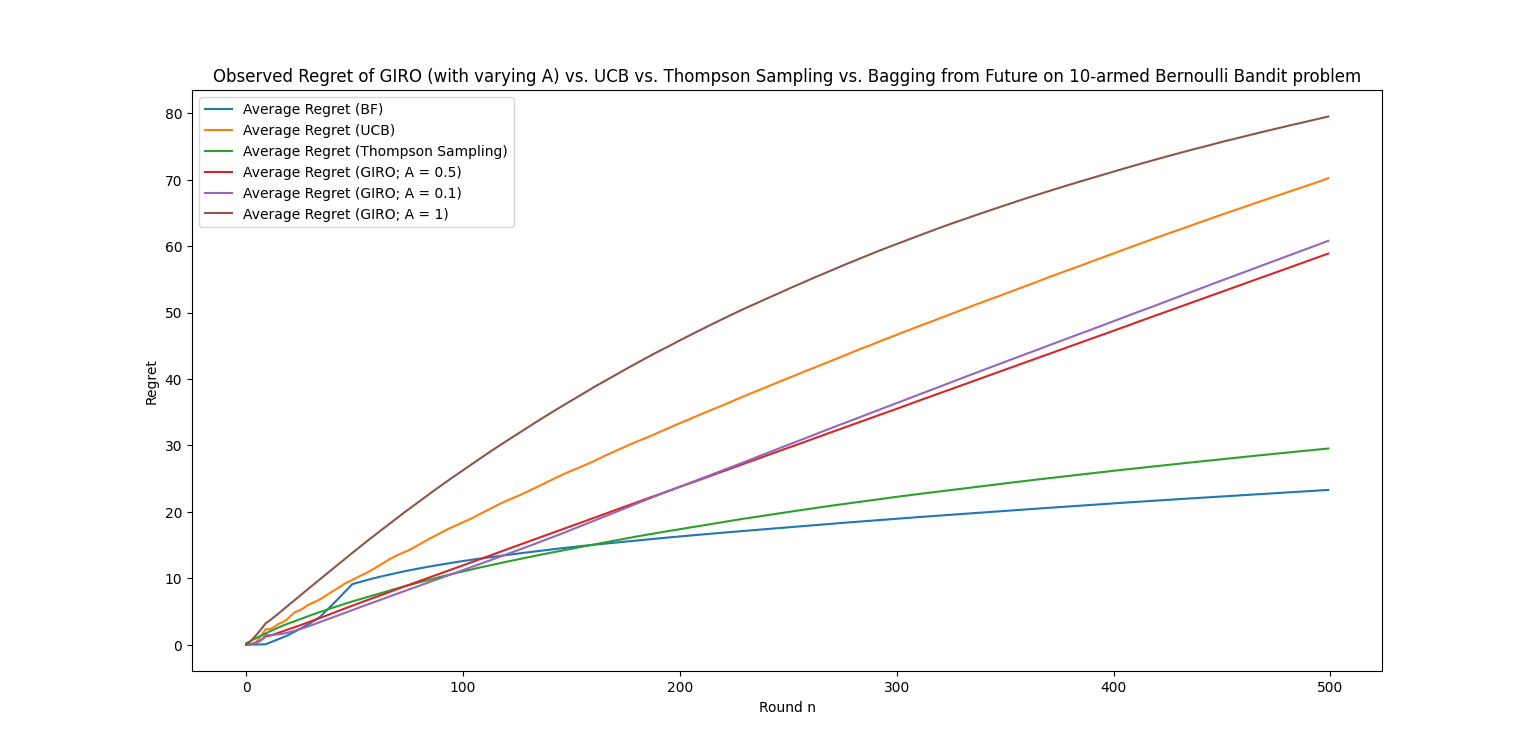
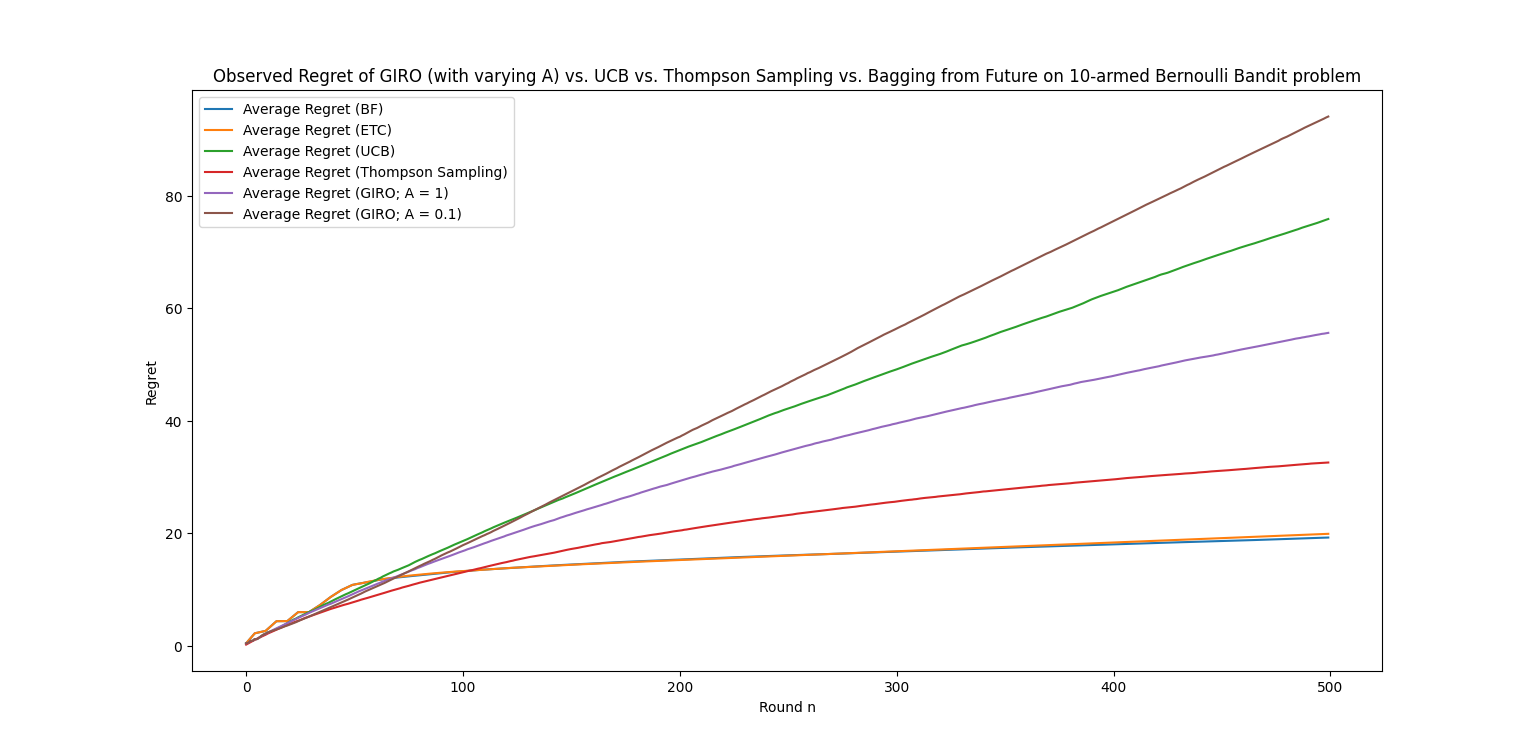
Comparing with ETC

diff --git a/giro_non_contextual.py b/giro_non_contextual.py
@@ -3,6 +3,7 @@ import matplotlib.pyplot as plt
 from numpy import random
 import math
 
+random.seed(885)
 
 def GIRO_arm_estimates_factory_function(A):
 
@@ -70,26 +71,48 @@ def TS_arm_estimates_function(history, t, N):
 
     return arm_estimates_current_round
 
-def bagging_from_future_arm_estimates(history, t, N):
-    num_arms = len(history)
-    arm_estimates_current_round = np.zeros(shape=K)
+def bagging_from_future_factory(initial_exploration):
 
-    for j in range(num_arms):
-        s = len(history[j])
+    def bagging_from_future_arm_estimates(history, t, N):
+        num_arms = len(history)
+        arm_estimates_current_round = np.zeros(shape=K)
 
-        if (s < 5):
-            arm_estimates_current_round[j] = np.inf
-        else:
-            rewards = np.zeros(shape=N)
-            uniform_sample = random.randint(low = 0, high = s-1, size = N - s)
-            for i in range(N):
-                if (i < s):
-                    rewards[i] = history[j][i]
-                else:
-                    rewards[i] = history[j][uniform_sample[i-s]]
-            arm_estimates_current_round[j] = np.mean(rewards)
+        for j in range(num_arms):
+            s = len(history[j])
 
-    return arm_estimates_current_round
+            if (s < initial_exploration):
+                arm_estimates_current_round[j] = np.inf
+            else:
+                rewards = np.zeros(shape=N)
+                uniform_sample = random.randint(low = 0, high = s, size = N - s)
+                for i in range(N):
+                    if (i < s):
+                        rewards[i] = history[j][i]
+                    else:
+                        rewards[i] = history[j][uniform_sample[i-s]]
+                arm_estimates_current_round[j] = np.mean(rewards)
+
+        return arm_estimates_current_round
+    
+    return bagging_from_future_arm_estimates
+
+def explore_then_commit_factory(initial_exploration):
+
+    def explore_then_commit(history, t, N):
+        num_arms = len(history)
+        arm_estimates_current_round = np.zeros(shape=K)
+
+        for j in range(num_arms):
+            s = len(history[j])
+
+            if (s < initial_exploration):
+                arm_estimates_current_round[j] = np.inf
+            else:
+                arm_estimates_current_round[j] = np.mean(history[j])
+        return arm_estimates_current_round
+    
+    return explore_then_commit
+
 
 def bernoulli_bandit(mu_i):
     return random.binomial(n=1, p = mu_i)
@@ -108,19 +131,12 @@ def beta_bandit_factory(nu, ts=False):
 # K-armed Bernoulli Bandit 
 # problem tackled using 
 # various algorithms
-def simulate_stochastic_bandit_problem(K, T, generate_reward, compute_arm_estimates, M=1000):
+def simulate_stochastic_bandit_problem(K, T, generate_reward, compute_arm_estimates, M=100):
 
     # data_structure to keep track of the
     # accumulated regret up to the current round
     # for M different runs
     accumulated_regret = np.zeros(shape=(M, T))
-
-    # Generate the means of the arms 
-    # using a Uniform distribution
-    arms_mean_lower_range = 0.25
-    arms_mean_upper_range = 0.75
-    arms_mean = np.flip(np.sort(random.uniform(arms_mean_lower_range, arms_mean_upper_range, size = K)))
-    optimal_arm_mean = arms_mean[0]
 
     for m in range(0, M):
         # initialize the data_structures
@@ -146,7 +162,7 @@ def simulate_stochastic_bandit_problem(K, T, generate_reward, compute_arm_estima
 
             # add to accumulated regret only if 
             # optimal arm was not chosen this round 
-            if (I_t != 0):
+            if (I_t != optimal_arm_mean_index):
                 sub_optimality_gap = (optimal_arm_mean - arms_mean[I_t]) 
                 if (i == 0):
                     accumulated_regret[m][i] = sub_optimality_gap
@@ -164,12 +180,22 @@ def simulate_stochastic_bandit_problem(K, T, generate_reward, compute_arm_estima
 T = 500
 K = 10
 
-plt.plot(range(T), simulate_stochastic_bandit_problem(K = K, T = T, generate_reward = bernoulli_bandit, compute_arm_estimates = bagging_from_future_arm_estimates), label="Average Regret (BF)")
+# Generate the means of the arms 
+# using a Uniform distribution
+arms_mean_lower_range = 0.25
+arms_mean_upper_range = 0.75
+arms_mean = random.uniform(arms_mean_lower_range, arms_mean_upper_range, size = K)
+optimal_arm_mean_index = np.argmax(arms_mean)
+optimal_arm_mean = arms_mean[optimal_arm_mean_index]
+
+""" simulate_stochastic_bandit_problem(K=K, T=T, generate_reward=bernoulli_bandit, compute_arm_estimates=bagging_from_future_arm_estimates, M=1) """
+
+plt.plot(range(T), simulate_stochastic_bandit_problem(K = K, T = T, generate_reward = bernoulli_bandit, compute_arm_estimates = bagging_from_future_factory(5)), label="Average Regret (BF)")
+plt.plot(range(T), simulate_stochastic_bandit_problem(K = K, T = T, generate_reward = bernoulli_bandit, compute_arm_estimates = explore_then_commit_factory(5)), label="Average Regret (ETC)")
 plt.plot(range(T), simulate_stochastic_bandit_problem(K= K, T = T, generate_reward = bernoulli_bandit, compute_arm_estimates = UCB_arm_estimates_function), label="Average Regret (UCB)")
 plt.plot(range(T), simulate_stochastic_bandit_problem(K= K, T = T, generate_reward = bernoulli_bandit, compute_arm_estimates = TS_arm_estimates_function), label="Average Regret (Thompson Sampling)")
-plt.plot(range(T), simulate_stochastic_bandit_problem(K = K, T = T, generate_reward = bernoulli_bandit, compute_arm_estimates = GIRO_arm_estimates_factory_function(0.5)), label="Average Regret (GIRO; A = 0.5)")
-plt.plot(range(T), simulate_stochastic_bandit_problem(K = K, T = T, generate_reward = bernoulli_bandit, compute_arm_estimates = GIRO_arm_estimates_factory_function(0.1)), label="Average Regret (GIRO; A = 0.1)")
 plt.plot(range(T), simulate_stochastic_bandit_problem(K = K, T = T, generate_reward = bernoulli_bandit, compute_arm_estimates = GIRO_arm_estimates_factory_function(1)), label="Average Regret (GIRO; A = 1)")
+plt.plot(range(T), simulate_stochastic_bandit_problem(K = K, T = T, generate_reward = bernoulli_bandit, compute_arm_estimates = GIRO_arm_estimates_factory_function(0.1)), label="Average Regret (GIRO; A = 0.1)")
 plt.title("Observed Regret of GIRO (with varying A) vs. UCB vs. Thompson Sampling vs. Bagging from Future on 10-armed Bernoulli Bandit problem")
 
 plt.legend()
@@ -177,11 +203,10 @@ plt.ylabel('Regret')
 plt.xlabel('Round n')
 plt.show()
 
-plt.plot(range(T), simulate_stochastic_bandit_problem(K = K, T = T, generate_reward = beta_bandit_factory(nu=4), compute_arm_estimates = bagging_from_future_arm_estimates), label="Average Regret (BF)")
+plt.plot(range(T), simulate_stochastic_bandit_problem(K = K, T = T, generate_reward = beta_bandit_factory(nu=4), compute_arm_estimates = bagging_from_future_factory(5)), label="Average Regret (BF)")
+plt.plot(range(T), simulate_stochastic_bandit_problem(K = K, T = T, generate_reward = bernoulli_bandit, compute_arm_estimates = explore_then_commit_factory(5)), label="Average Regret (ETC)")
 plt.plot(range(T), simulate_stochastic_bandit_problem(K= K, T = T, generate_reward = beta_bandit_factory(nu=4), compute_arm_estimates = UCB_arm_estimates_function), label="Average Regret (UCB)")
 plt.plot(range(T), simulate_stochastic_bandit_problem(K= K, T = T, generate_reward = beta_bandit_factory(nu=4, ts=True), compute_arm_estimates = TS_arm_estimates_function), label="Average Regret (Thompson Sampling)")
-plt.plot(range(T), simulate_stochastic_bandit_problem(K = K, T = T, generate_reward = beta_bandit_factory(nu=4), compute_arm_estimates = GIRO_arm_estimates_factory_function(0.5)), label="Average Regret (GIRO; A = 0.5)")
-plt.plot(range(T), simulate_stochastic_bandit_problem(K = K, T = T, generate_reward = beta_bandit_factory(nu=4), compute_arm_estimates = GIRO_arm_estimates_factory_function(0.1)), label="Average Regret (GIRO; A = 0.1)")
 plt.plot(range(T), simulate_stochastic_bandit_problem(K = K, T = T, generate_reward = beta_bandit_factory(nu=4), compute_arm_estimates = GIRO_arm_estimates_factory_function(1)), label="Average Regret (GIRO; A = 1)")
 plt.title("Observed Regret of GIRO (with varying A) vs. UCB vs. Thompson Sampling vs. Bagging from Future on 10-armed (high-variance) Beta Bandit problem")
 
@@ -190,11 +215,10 @@ plt.ylabel('Regret')
 plt.xlabel('Round n')
 plt.show()
 
-plt.plot(range(T), simulate_stochastic_bandit_problem(K = K, T = T, generate_reward = beta_bandit_factory(nu=16), compute_arm_estimates = bagging_from_future_arm_estimates), label="Average Regret (BF)")
+plt.plot(range(T), simulate_stochastic_bandit_problem(K = K, T = T, generate_reward = beta_bandit_factory(nu=16), compute_arm_estimates = bagging_from_future_factory(5)), label="Average Regret (BF)")
+plt.plot(range(T), simulate_stochastic_bandit_problem(K = K, T = T, generate_reward = beta_bandit_factory(nu=16), compute_arm_estimates = explore_then_commit_factory(5)), label="Average Regret (ETC)")
 plt.plot(range(T), simulate_stochastic_bandit_problem(K= K, T = T, generate_reward = beta_bandit_factory(nu=16), compute_arm_estimates = UCB_arm_estimates_function), label="Average Regret (UCB)")
 plt.plot(range(T), simulate_stochastic_bandit_problem(K= K, T = T, generate_reward = beta_bandit_factory(nu=16, ts=True), compute_arm_estimates = TS_arm_estimates_function), label="Average Regret (Thompson Sampling)")
-plt.plot(range(T), simulate_stochastic_bandit_problem(K = K, T = T, generate_reward = beta_bandit_factory(nu=16), compute_arm_estimates = GIRO_arm_estimates_factory_function(0.5)), label="Average Regret (GIRO; A = 0.5)")
-plt.plot(range(T), simulate_stochastic_bandit_problem(K = K, T = T, generate_reward = beta_bandit_factory(nu=16), compute_arm_estimates = GIRO_arm_estimates_factory_function(0.1)), label="Average Regret (GIRO; A = 0.1)")
 plt.plot(range(T), simulate_stochastic_bandit_problem(K = K, T = T, generate_reward = beta_bandit_factory(nu=16), compute_arm_estimates = GIRO_arm_estimates_factory_function(1)), label="Average Regret (GIRO; A = 1)")
 plt.title("Observed Regret of GIRO (with varying A) vs. UCB vs. Thompson Sampling vs. Bagging from Future on 10-armed (low-variance) Beta Bandit problem")
 
